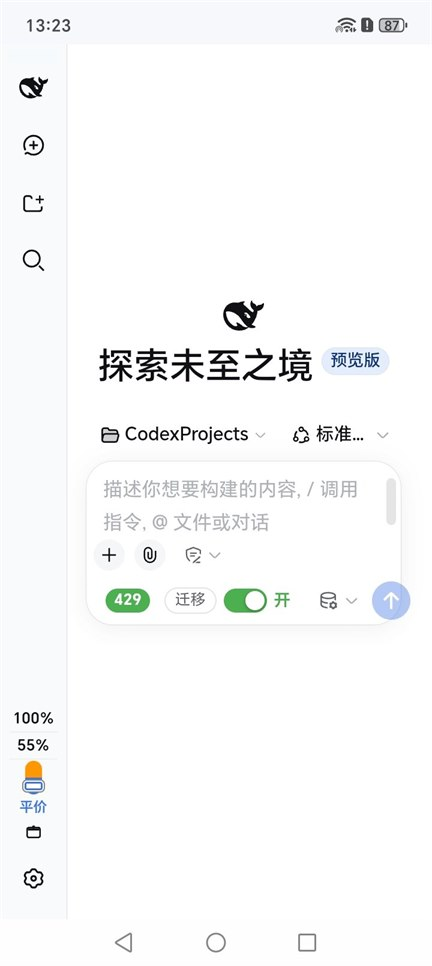
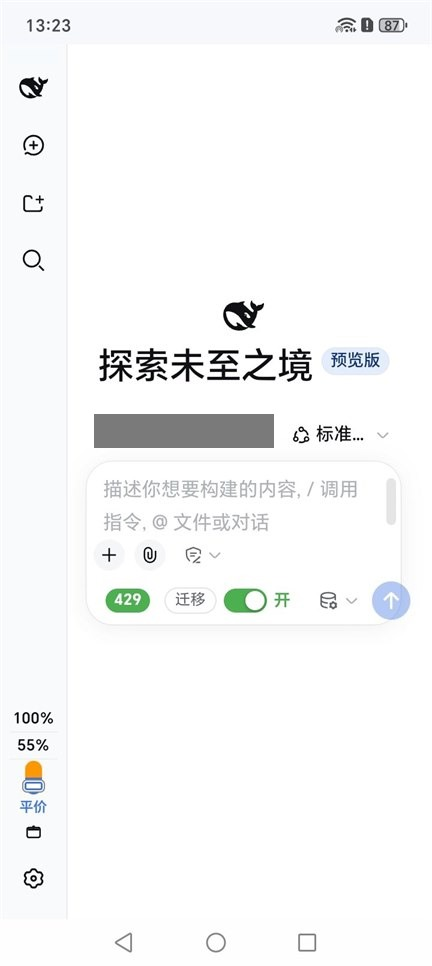
Redact the phone screenshot, and stop the tree naming versions it does not ship
docs/images/dsh-screen.jpg had the composer's workspace chip unredacted. The tablet
captures covered that name; the phone one did not, and the README shows the file. The
block covers the whole chip now -- measured off a 4x zoom, because the first attempt
stopped at x=220 and left the tail "ects" readable beside it. The blob that shipped in
6379c36 stays in history; only a rewrite of the branch would remove it.

Nine screenshots are gone. Seven of them were referenced from nowhere at all:

  app-info.jpg                   the app-info screen from 0.3.9
  tablet-app-info.jpg            the app-info screen from 0.4.1, on the tablet row
                                 under the sentence saying the tablet runs 0.4.6
  dsh-notice.jpg                 superseded captures of screens the README now
  notification-permission.jpg    shows from a newer build
  phone-043-settings-top.jpg
  phone-043-settings-bottom.jpg
  phone-044-tailscale-card.jpg
  provisioning-page.jpg
  task-notifications.jpg

An app-info screen is the system's word for what is installed, which makes a stale one a
version claim a reader will believe rather than a historical nicety -- and the two here
named releases this project no longer serves. Every file left in docs/images/ is
referenced by the README, every image reference in the tree resolves, and the only place
a removed name still appears is the changelog entry that records the removal.
[…]

Changed region(s): [[0.2106, 0.4037, 0.6319, 0.4658]]

diff --git a/README.md b/README.md
@@ -192,9 +192,12 @@ And when it fails, it says which part:
 
 Both devices now run **0.4.6** (`versionCode` 26) — Android's own app-info screen is the first one below,
 because it is the system's word for what is installed rather than the app's. The captures around it come
-from the 0.4.x line as it grew, and all of them are from real devices rather than mockups. Screenshots that
-showed a tailnet address — the provisioning page's target field, the link it generates, and the QR code that
-encodes it — are redacted: that address belongs to whoever runs the server, not to this project.
+from the 0.4.x line as it grew — the note under the table says which release each one is from — and all of
+them are from real devices rather than mockups. Screenshots that showed a tailnet address — the provisioning
+page's target field, the link it generates, and the QR code that encodes it — are redacted: that address
+belongs to whoever runs the server, not to this project. Nor is any of them composited: where a capture
+carries wording the app has since corrected, the wording stays in the picture and is named below, because
+the alternative is a screenshot that never existed.
 
 | | | |
 |---|---|---|
@@ -202,6 +205,15 @@ encodes it — are redacted: that address belongs to whoever runs the server, no
 | **Android's own screen** — *Settings → Apps → DSH BYOK*, version **0.4.6**, installed by an installer | **First thing in the app** — the prerequisite card and **Tailscale 下载来源**, with the package-server APKs | **Connection method**, the hand-off to another device, and the **connection test** |
 | ![Opening the DSH UI, the update check, and diagnostics](docs/images/phone-044-update-and-diagnostics.jpg) | ![The DSH UI in the WebView](docs/images/dsh-screen.jpg) | ![The provisioning page](docs/images/phone-043-provisioning.jpg) |
 | The **DSH UI** button, the manual **update check**, and **diagnostics** last | **The DSH UI**, in the WebView, through the loopback proxy | **The provisioning page** that turns a target into a link or a code (address redacted) |
+
+**Which release each capture is from.** The file names say it; the pictures mostly do not. The phone's
+app-info screen and the Tailscale card are **0.4.6**. The connection methods with the hand-off and the test,
+and the update check with diagnostics, are **0.4.4**. The provisioning page is **0.4.3**. The DSH UI is the
+target's own page rather than the app's, and shows no version of this app at all. Two of them carry wording
+the app has since changed: the 0.4.4 capture's system-network note still reads **"Android 13 or newer"**
+(0.4.5 corrected it to **Android 8**, the floor Tailscale itself sets), and the 0.4.3 provisioning page still
+names **v0.4.3** as the newest release (that page now reads the published release as the site is built, so it
+cannot go stale that way again).
 
 ## First run, step by step
 
@@ -231,17 +243,23 @@ result of the test sits directly under the fields it describes.
 
 The same app on an Android tablet (HUAWEI AGS5-W00, Android 12), which is the other
 half of the point: the DSH UI is the same page at a wider width, and the app around it
-behaves the same. The tablet runs the **same release as the phone — 0.4.6** — and Android's
-own app-info screen above is the proof of it; the captures here are from the 0.4.x line as
-it grew. The block over the composer's workspace chip is a redaction — the name under it is
-the local checkout's folder, and a machine path has no business in a public repository.
+behaves the same. The tablet runs the **same release as the phone — 0.4.6** — and the one
+app-info screen here that shows it is Android's own for the phone, at the top of this
+section: the only tablet app-info capture on file was taken on **0.4.1**, and a screenshot
+of a superseded version reads as a claim about what the project ships, so it is not
+published. The captures that are here arrived with the **0.4.1** and **0.4.4** commits — the app-info screen
+that came with the 0.4.1 set is the one left out — and they are the app shell around the DSH page rather than
+the page itself. None of them shows a version number, which is why the app-info screen for the phone is the
+one that carries it. All of them are from real devices rather than mockups. The block over the composer's
+workspace chip is a redaction — the name under it is the local checkout's folder, and a machine path has no
+business in a public repository.
 
 | | | |
 |---|---|---|
 | ![The app's permission screen on a tablet](docs/images/tablet-permissions.jpg) | ![DSH's settings panel at tablet width](docs/images/tablet-dsh-settings.jpg) | ![The DSH UI on a tablet](docs/images/tablet-dsh-composer.jpg) |
 | **Permissions** — camera for a setup QR, install-unknown-apps for the updater | **DSH's settings**, tabbed, at tablet width | **The DSH UI** on the tablet (workspace name redacted) |
-| ![DSH's first-run notice on a tablet](docs/images/tablet-first-run-notice.jpg) | ![The task-finished notification on a tablet](docs/images/tablet-notify.jpg) | ![DSH BYOK 0.4.1 installed on a tablet](docs/images/tablet-app-info.jpg) |
-| **First run** on the tablet, over the session list | **The finish notice** on the tablet's own shade — and above it, the watch that precedes it | **Installed** — kept for the history: this is what the tablet looked like on 0.4.1 |
+| ![DSH's first-run notice on a tablet](docs/images/tablet-first-run-notice.jpg) | ![The task-finished notification on a tablet](docs/images/tablet-notify.jpg) | |
+| **First run** on the tablet, over the session list | **The finish notice** on the tablet's own shade — and above it, the watch that precedes it | |
 
 From there, *Open the DSH UI* swaps in `WebScreen.kt`: a WebView onto the
 target's own interface, reached through the loopback proxy described above.

diff --git a/CHANGELOG.md b/CHANGELOG.md
@@ -15,6 +15,35 @@ oversight, and it is worth knowing when you read a security entry below.
 
 ## [Unreleased]
 
+### Changed
+
+- **The phone screenshots now say which release each one came from.** The file names were the only place that
+  said it, and a reader sees the pictures without them — so the version a capture belongs to, and the two places
+  it still carries wording the app has since corrected (the 0.4.4 system-network note reading *"Android 13 or
+  newer"*, which 0.4.5 corrected to Android 8, and the 0.4.3 provisioning page naming `v0.4.3` as the newest
+  release) are written out under the table rather than cropped, painted over or guessed at.
+
+### Fixed
+
+- **`docs/images/dsh-screen.jpg` shipped its composer workspace chip unredacted.** The tablet captures
+  had that name covered; the phone one did not, so a public file read the local checkout's folder name,
+  and the README shows that file. The block now covers the whole chip. The earlier blob stays in history
+  (added in `6379c36`), which only a rewrite of the branch would remove.
+
+### Removed
+
+- **Nine screenshots that no longer belong in the tree**, so that nothing published contradicts the current
+  release. An app-info screen is the system's word for what is installed, which makes an old one a version
+  claim a reader will believe rather than a historical nicety — and two of them made that claim about
+  versions this project no longer ships: `app-info.jpg` (**0.3.9**, four releases back, already dropped from
+  the README) and `tablet-app-info.jpg` (**0.4.1**, still shown in the tablet section in the same breath as
+  the sentence saying the tablet runs 0.4.6). The other seven — `dsh-notice.jpg`,
+  `notification-permission.jpg`, `phone-043-settings-top.jpg`, `phone-043-settings-bottom.jpg`,
+  `phone-044-tailscale-card.jpg`, `provisioning-page.jpg`, `task-notifications.jpg` — were superseded
+  captures of screens the README now shows from a newer build, and no file in the repository, the docs site
+  or the workflows referenced them. With them gone, every file left in `docs/images/` is referenced by the
+  README.
+
 ## [0.4.6] — 2026-09-26
 
 ### Added
